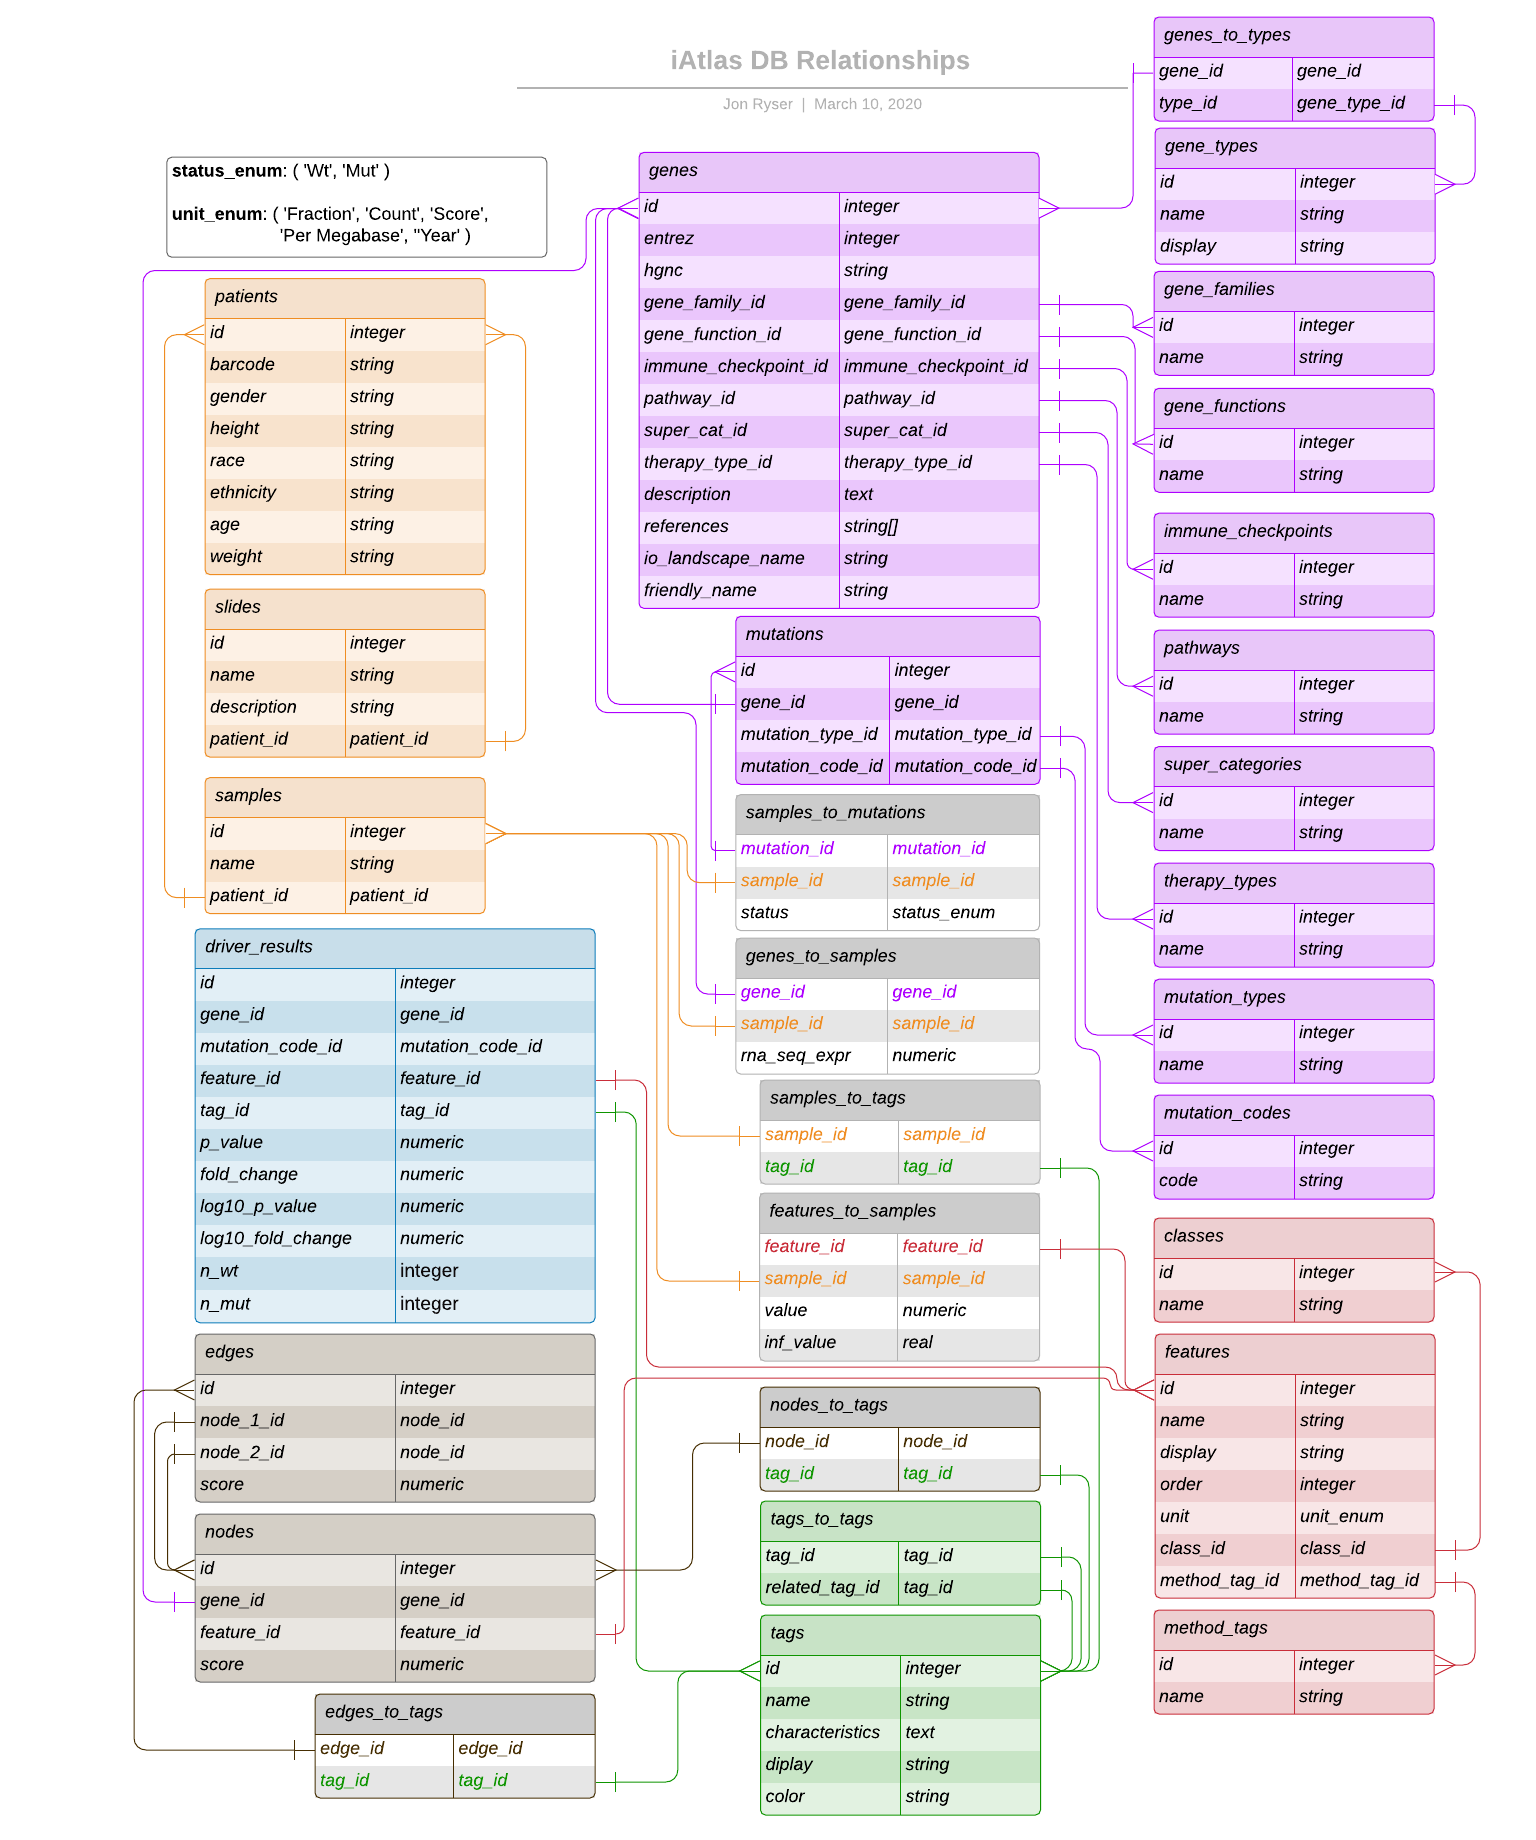
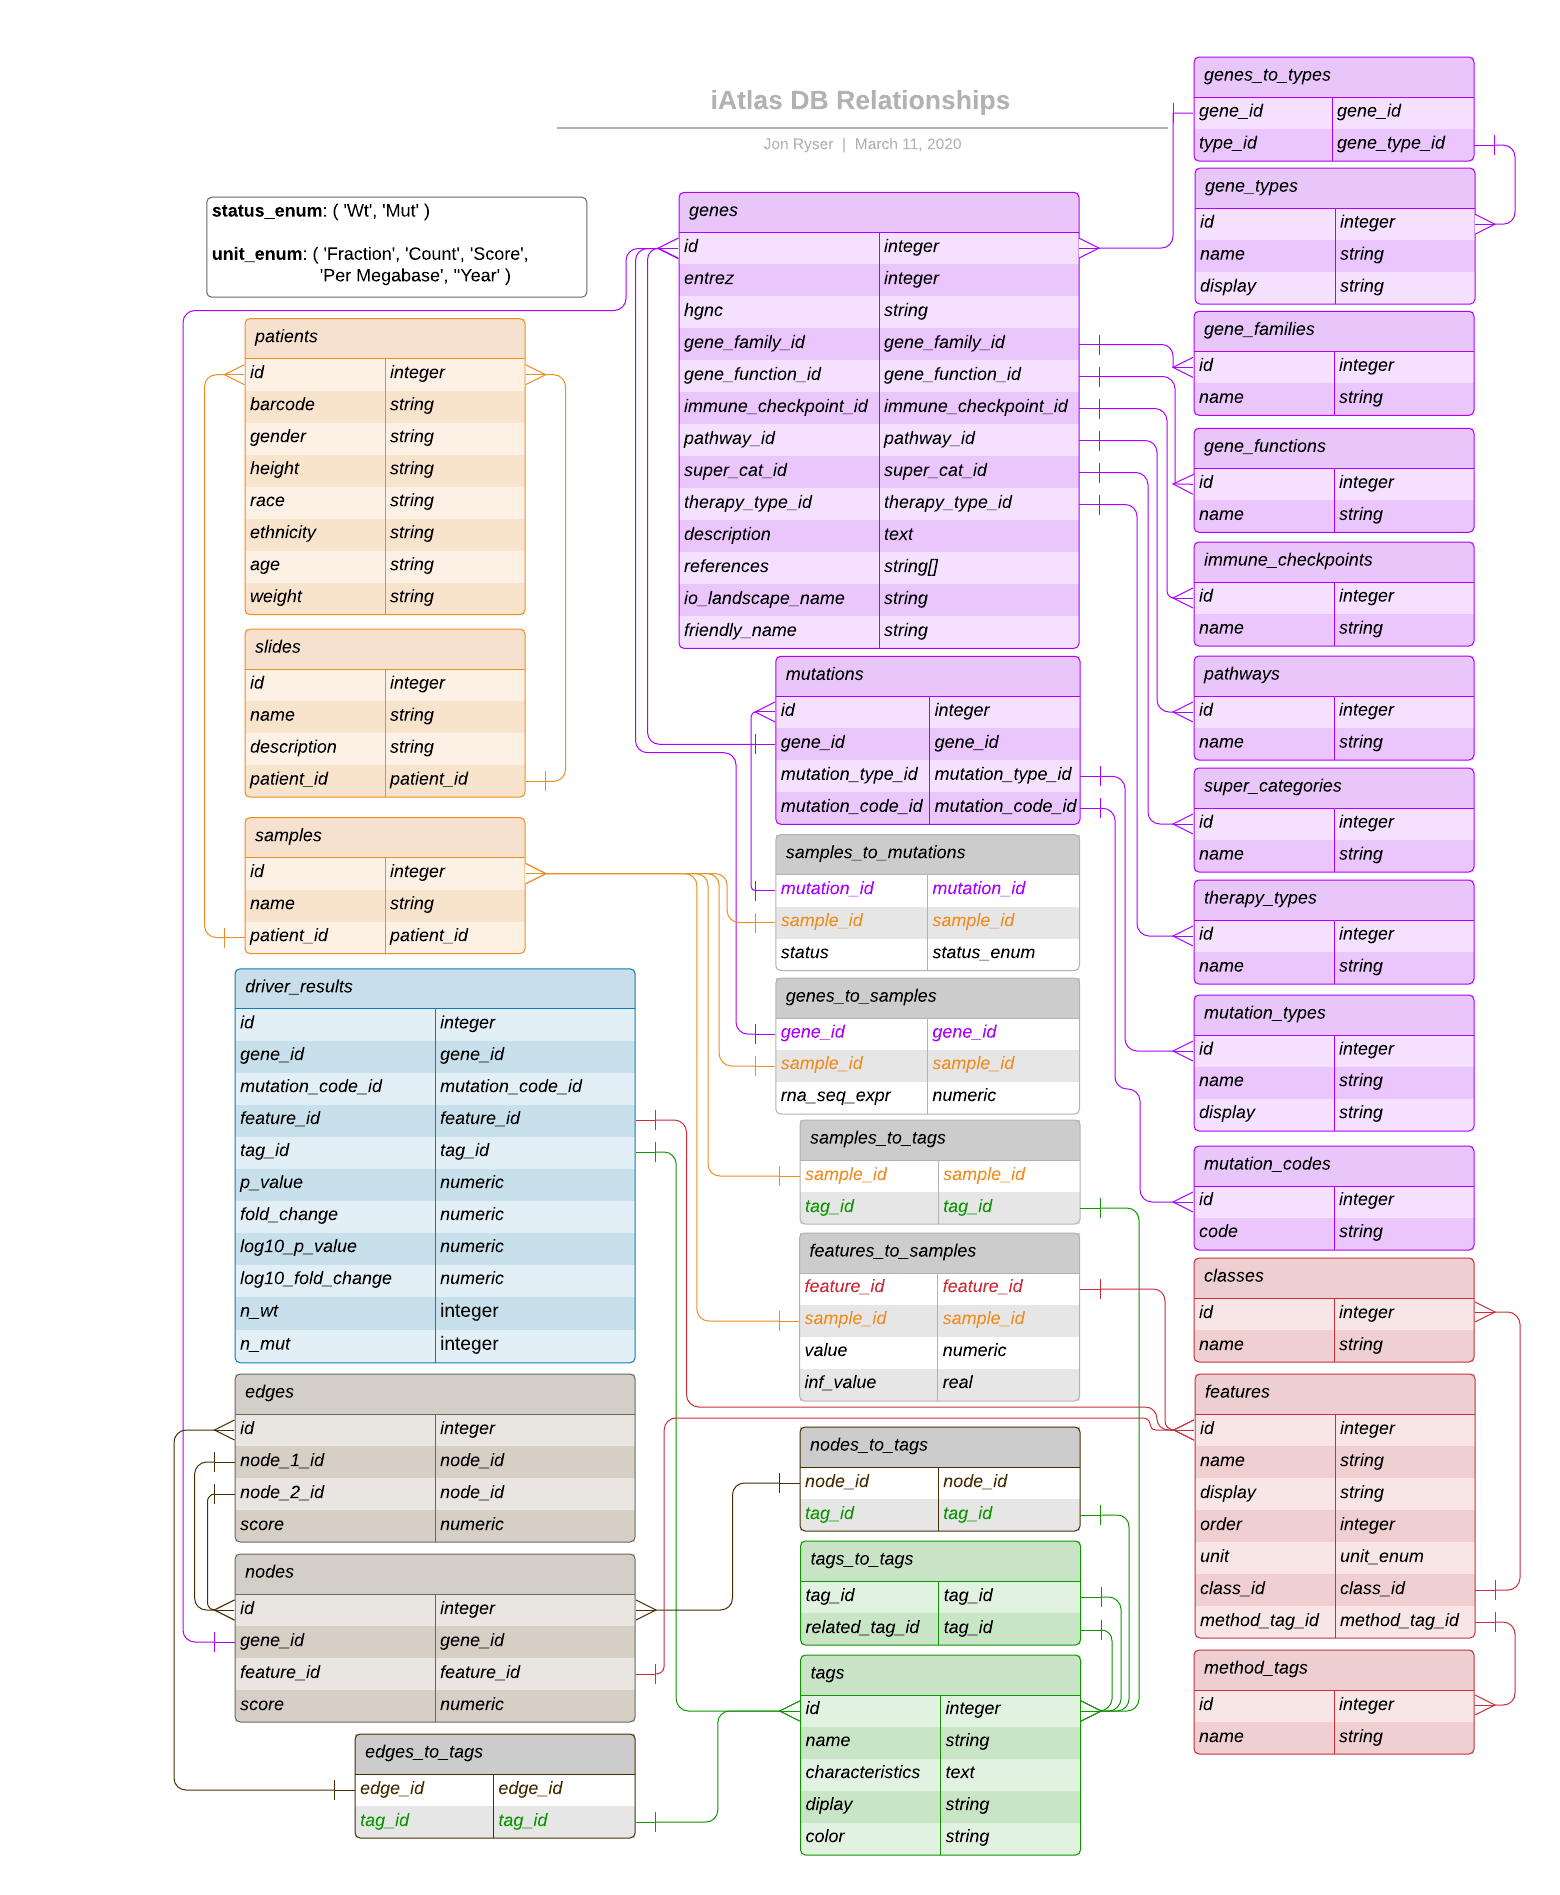
Added display field to mutation types.

diff --git a/data_model/README.md b/data_model/README.md
@@ -287,6 +287,8 @@ The following are descriptions of each field in each table. This should be exhau
 
   - `name` - The unique name of the mutation type. (a string)
 
+  - `display` - A human friendly name for the mutation type. (a string)
+
 - [mutation_codes](#mutation_codes)
 
   - `id` - A unique database identifier for the specific mutation code. This is an integer that is generated by the database. (an integer)
